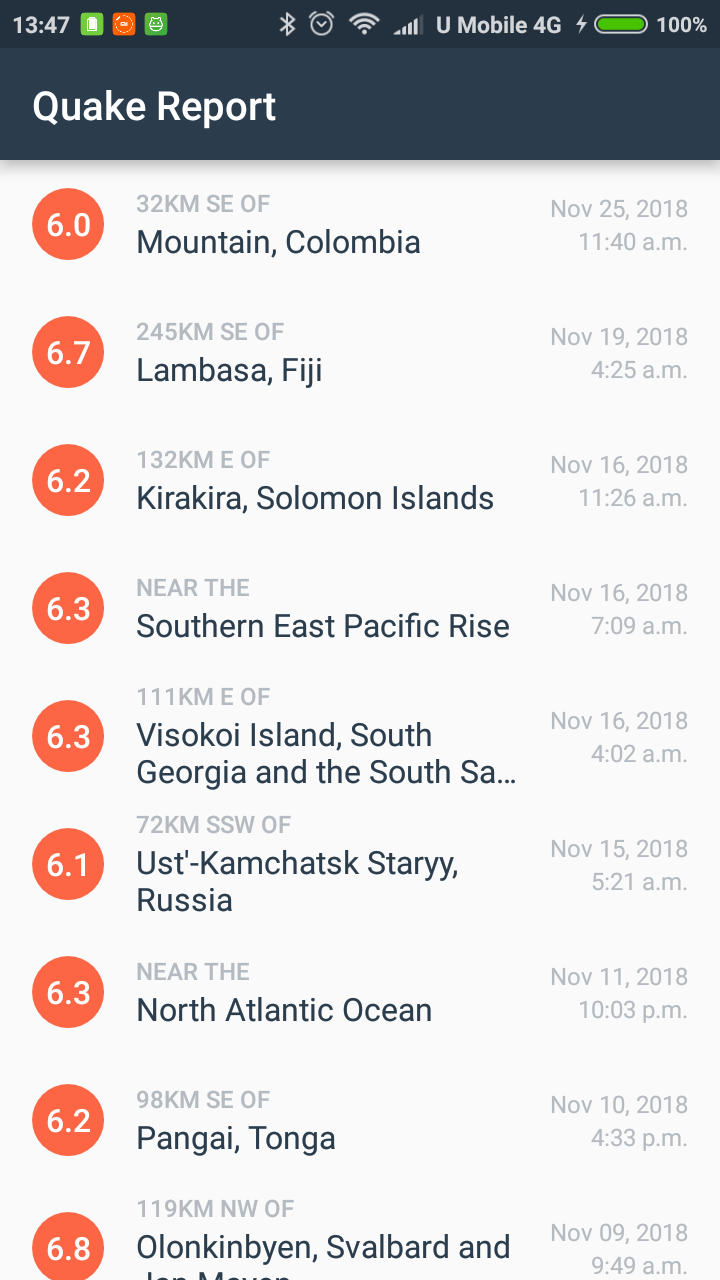
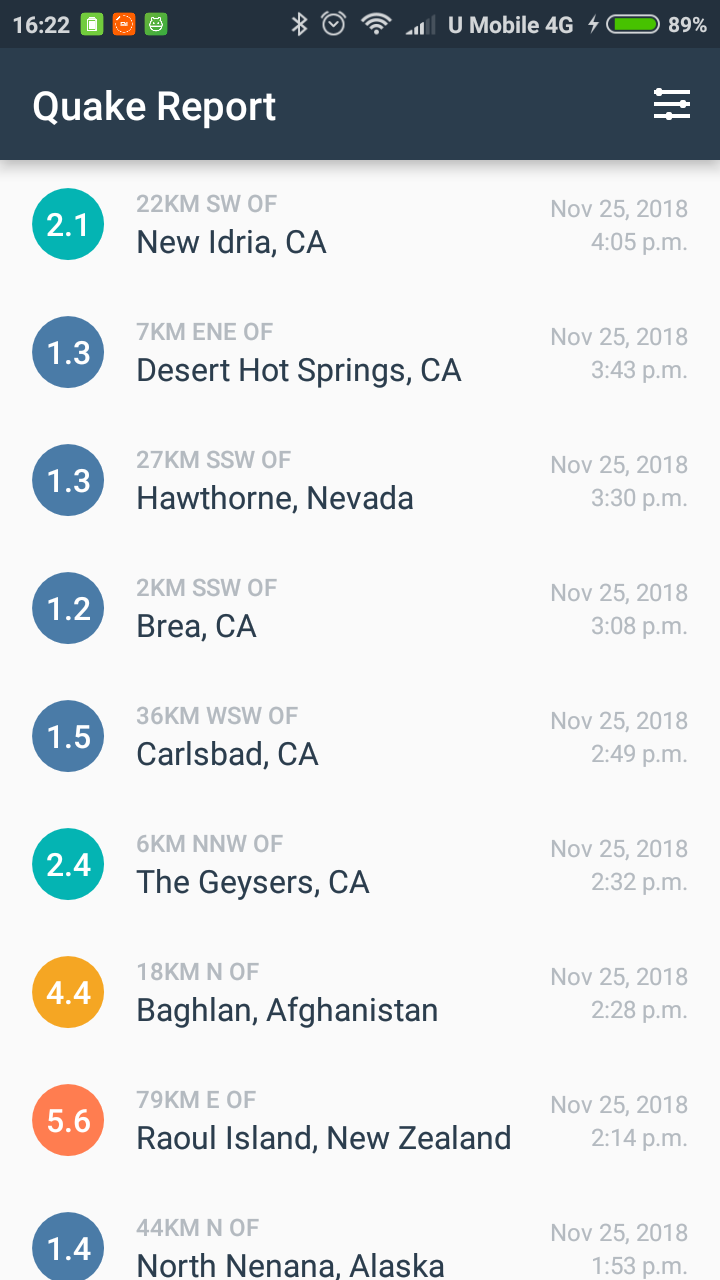
Added Order By settings in Settings page

diff --git a/app/src/main/java/com/example/android/quakereport/SettingsActivity.java b/app/src/main/java/com/example/android/quakereport/SettingsActivity.java
@@ -2,6 +2,7 @@ package com.example.android.quakereport;
 
 import android.content.SharedPreferences;
 import android.os.Bundle;
+import android.preference.ListPreference;
 import android.preference.Preference;
 import android.preference.PreferenceFragment;
 import android.preference.PreferenceManager;
@@ -24,12 +25,24 @@ public class SettingsActivity extends AppCompatActivity {
 
             Preference minMagnitude = findPreference(getString(R.string.settings_min_magnitude_key));
             bindPreferenceSummaryToValue(minMagnitude);
+
+            Preference orderBy = findPreference(getString(R.string.settings_order_by_key));
+            bindPreferenceSummaryToValue(orderBy);
         }
 
         @Override
         public boolean onPreferenceChange(Preference preference, Object value) {
             String stringValue = value.toString();
-            preference.setSummary(stringValue);
+            if (preference instanceof ListPreference) {
+                ListPreference listPreference = (ListPreference) preference;
+                int prefIndex = listPreference.findIndexOfValue(stringValue);
+                if (prefIndex >= 0) {
+                    CharSequence[] labels = listPreference.getEntries();
+                    preference.setSummary(labels[prefIndex]);
+                }
+            } else {
+                preference.setSummary(stringValue);
+            }
             return true;
         }
 

diff --git a/app/src/main/java/com/example/android/quakereport/EarthquakeActivity.java b/app/src/main/java/com/example/android/quakereport/EarthquakeActivity.java
@@ -145,13 +145,19 @@ public class EarthquakeActivity extends AppCompatActivity implements LoaderManag
         String minMagnitude = sharedPrefs.getString(
                 getString(R.string.settings_min_magnitude_key),
                 getString(R.string.settings_min_magnitude_default));
+
+        String orderBy = sharedPrefs.getString(
+                getString(R.string.settings_order_by_key),
+                getString(R.string.settings_order_by_default)
+        );
+
         Uri baseUri = Uri.parse(USGS_REQUEST_URL);
         Uri.Builder uriBuilder = baseUri.buildUpon();
 
         uriBuilder.appendQueryParameter("format", "geojson");
         uriBuilder.appendQueryParameter("limit", "10");
         uriBuilder.appendQueryParameter("minmag", minMagnitude);
-        uriBuilder.appendQueryParameter("orderby", "time");
+        uriBuilder.appendQueryParameter("orderby", orderBy);
 
         return new EarthquakeLoader(this, uriBuilder.toString());
     }
